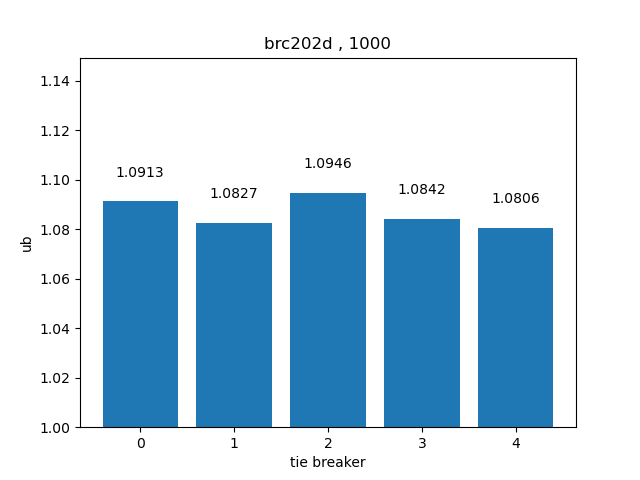
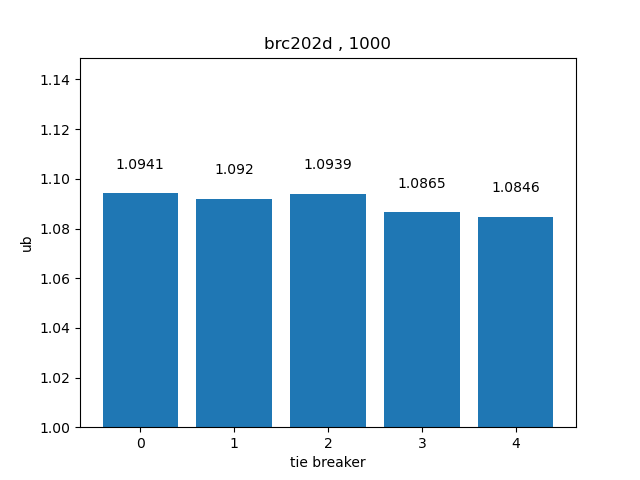
1

diff --git a/evaluate/main.py b/evaluate/main.py
@@ -27,13 +27,64 @@ mapDict={0:["corners",4],
 
 Candidates=[8,10,11,12,13,14,15,16,17,18,19,20,21]
 #Candidates=[12]
-TieBreakers=['0','1','2','3','4']
+TieBreakers=['0','1','2','3','4','5']
 
-selected=16
 
-for selected in Candidates:
+# for selected in Candidates:
+#     print(mapDict[selected][0])
+#     print(mapDict[selected][1])
+#     costs=[]
+#     lbs=[]
+#     ubs=[]
+#     for tiebreaker in TieBreakers:
+#         # 构建命令
+#         compute = [
+#             'build/main',
+#             '-i', f'assets/{mapDict[selected][0]}.scen',
+#             '-m', f'assets/{mapDict[selected][0]}.map',
+#             '-N', str(mapDict[selected][1]),
+#             '-v', '3',
+#             '-t', '5',
+#             '--no-star',
+#             '--tie-breaker',tiebreaker,
+#         ]
+#         try:
+#             # 运行命令
+#             result_compute = subprocess.run(compute, capture_output=True, text=True, check=True)
+#             # 打印输出
+#             print("标准输出:")
+#             print(result_compute.stdout)
+#             print("标准错误:")
+#             print(result_compute.stderr)
+#             cost,lb,ub=utils.extract_total_cost(result_compute.stdout)
+#             costs.append(cost)
+#             lbs.append(lb)
+#             ubs.append(ub)
+#         except subprocess.CalledProcessError as e:
+#             print(f"命令执行失败: {e}")
+#             print(f"返回码: {e.returncode}")
+#             print(f"标准错误: {e.stderr}")
+#     x = list(range(len(ubs)))
+#     # 绘制柱状图
+#     plt.bar(x, ubs)
+#     # 添加标题和标签
+#     title=f'{mapDict[selected][0]} , {mapDict[selected][1]}'
+#     plt.title(title)
+#     plt.xlabel('tie breaker')
+#     plt.ylabel('ub')
+#     plt.ylim(bottom=1)
+#     for i in range(len(ubs)):
+#         plt.text(i, ubs[i]+0.01, str(round(ubs[i],4)), ha='center')
+#     plt.savefig(f'evaluate/fig/{title}.png')
+#     plt.clf()
+#     # 显示图形
+#     #plt.show()
+    
+selected=8
+nums=[50*i for i in range(1,31)]    
+for num in nums:
     print(mapDict[selected][0])
-    print(mapDict[selected][1])
+    print(num)
     costs=[]
     lbs=[]
     ubs=[]
@@ -43,7 +94,7 @@ for selected in Candidates:
             'build/main',
             '-i', f'assets/{mapDict[selected][0]}.scen',
             '-m', f'assets/{mapDict[selected][0]}.map',
-            '-N', str(mapDict[selected][1]),
+            '-N', str(num),
             '-v', '3',
             '-t', '5',
             '--no-star',
@@ -65,19 +116,21 @@ for selected in Candidates:
             print(f"命令执行失败: {e}")
             print(f"返回码: {e.returncode}")
             print(f"标准错误: {e.stderr}")
+            break
+    if len(ubs)==0:
+        break
     x = list(range(len(ubs)))
     # 绘制柱状图
     plt.bar(x, ubs)
     # 添加标题和标签
-    title=f'{mapDict[selected][0]} , {mapDict[selected][1]}'
+    title=f'{mapDict[selected][0]} , {num}'
     plt.title(title)
     plt.xlabel('tie breaker')
     plt.ylabel('ub')
     plt.ylim(bottom=1)
     for i in range(len(ubs)):
         plt.text(i, ubs[i]+0.01, str(round(ubs[i],4)), ha='center')
-    plt.savefig(f'evaluate/fig/{title}.png')
+    plt.savefig(f'evaluate/fig2/{title}.png')
     plt.clf()
     # 显示图形
     #plt.show()
-    

diff --git a/lacam3/src/pibt.cpp b/lacam3/src/pibt.cpp
@@ -97,6 +97,9 @@ bool PIBT::funcPIBT(const int i, const Config &Q_from, Config &Q_to,const int in
     case 4:
       break_tie=(occupied_now[u->id]==NO_AGENT&&occupied_next[u->id]==NO_AGENT&&current_idx-index!=u->index-current_idx)?0.0:1.0;
       break;
+    case 5:
+      break_tie=(occupied_now[u->id]==NO_AGENT&&occupied_next[u->id]==NO_AGENT&&current_idx-index!=u->index-current_idx&&index!=-1)?0.0:1.0;
+      break;
     }
     tie_breakers[u->id] = (get_random_float(MT)+break_tie)*0.5;
   }
